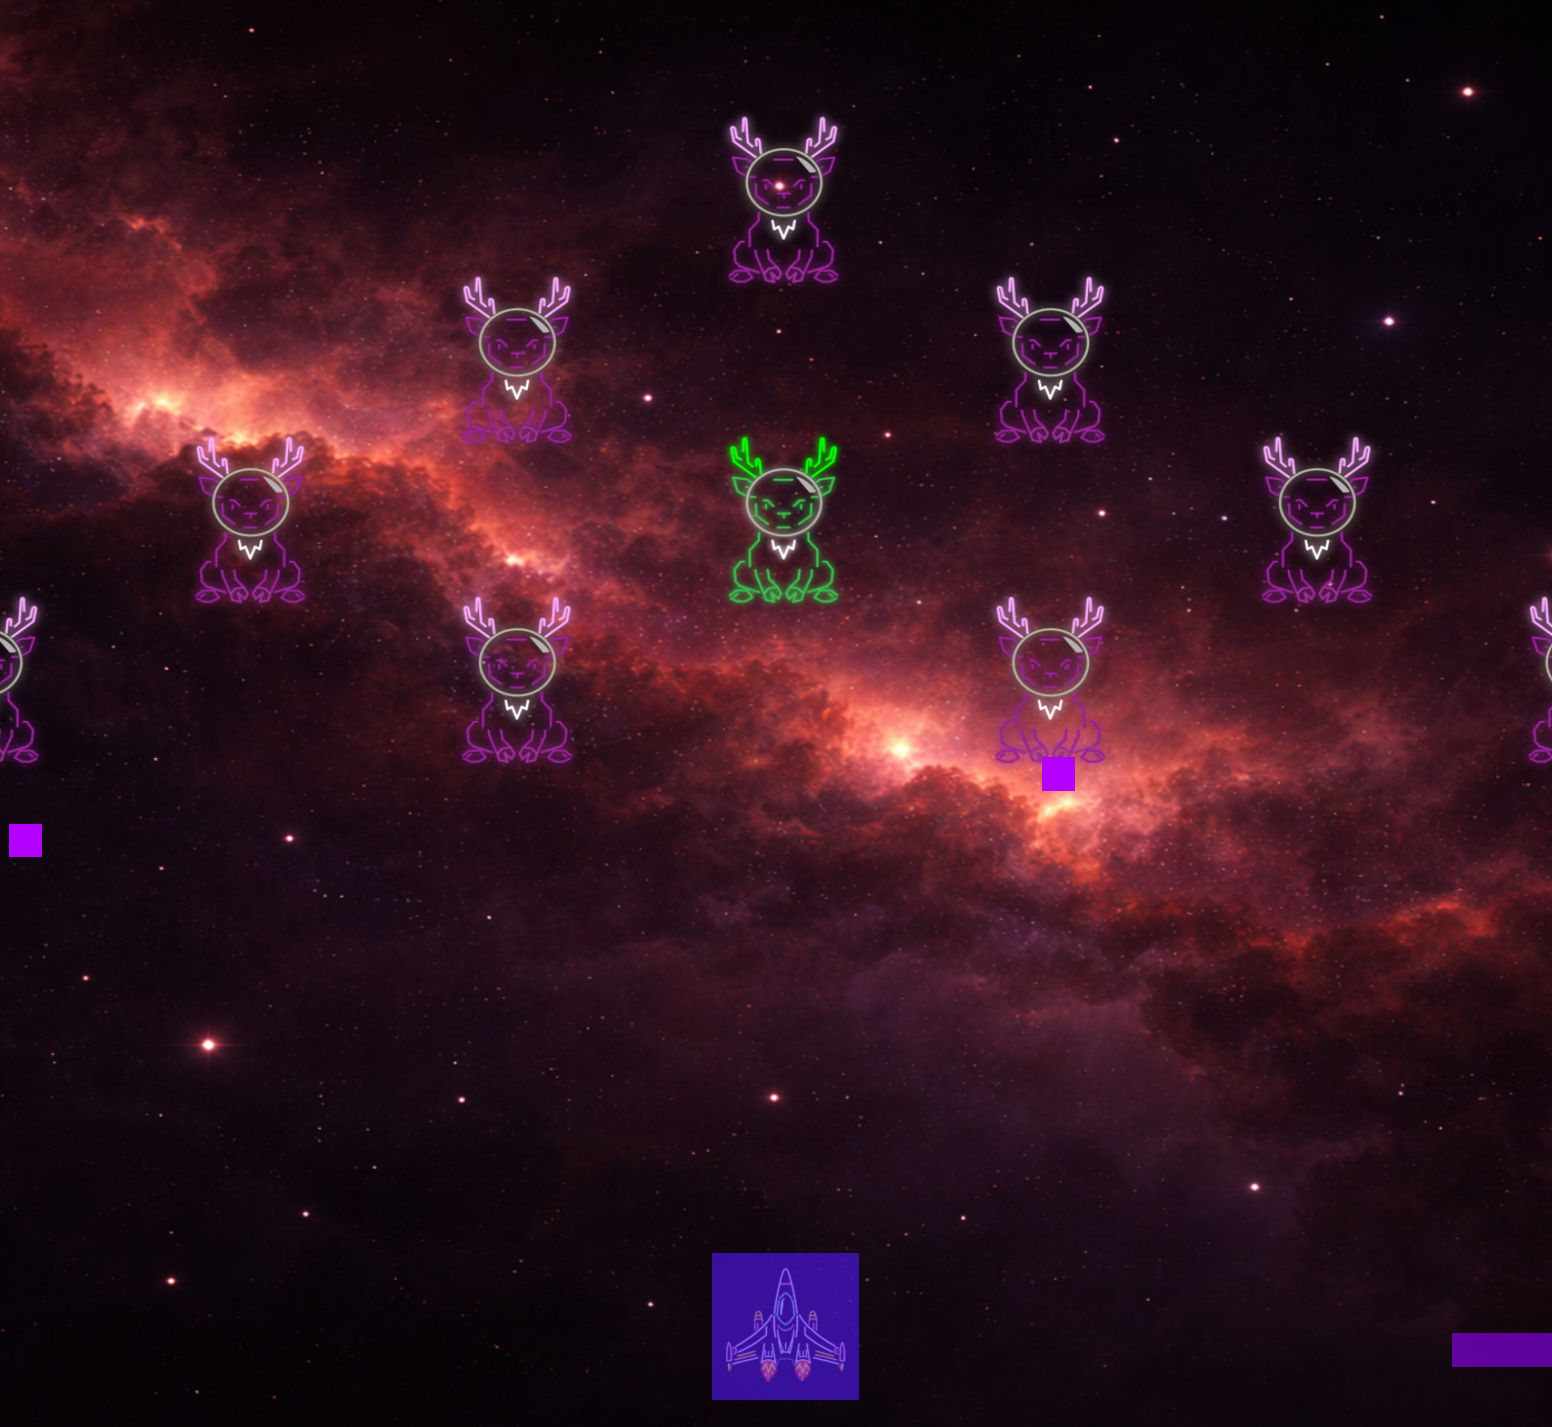
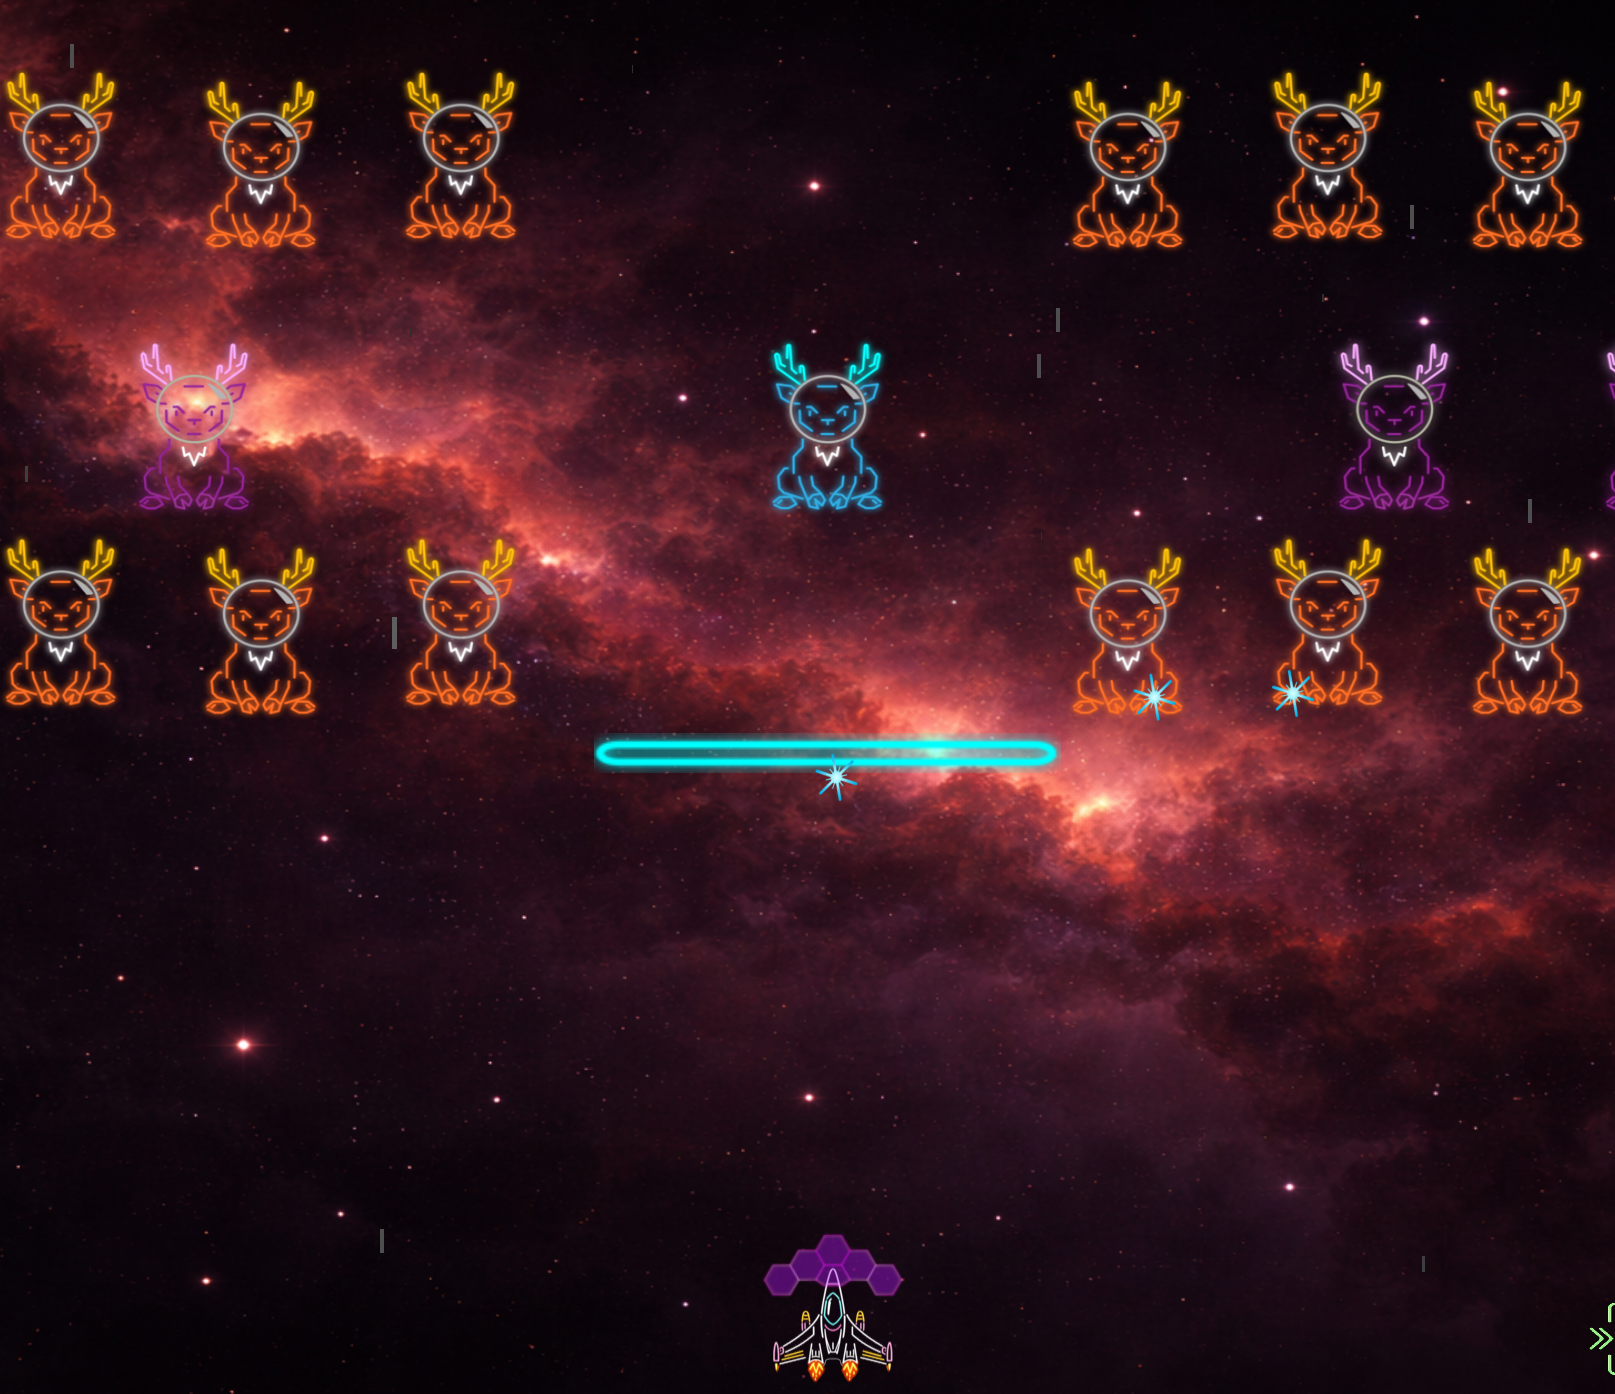
Debut Stage 3 + ChoixNiveau3 Update

diff --git a/Main.cpp b/Main.cpp
@@ -1778,10 +1778,10 @@ private:
             BoutonChoixNiveau2.h - (offset * 2.0f)
         };
         SDL_FRect Stage3Rect = {
-            BoutonChoixNiveau2.x + offset,
-            BoutonChoixNiveau2.y + offset,
-            BoutonChoixNiveau2.w - (offset * 2.0f),
-            BoutonChoixNiveau2.h - (offset * 2.0f)
+            BoutonChoixNiveau3.x + offset,
+            BoutonChoixNiveau3.y + offset,
+            BoutonChoixNiveau3.w - (offset * 2.0f),
+            BoutonChoixNiveau3.h - (offset * 2.0f)
         };
 
         //boutons et text
@@ -2286,14 +2286,26 @@ private:
     //Stage 3
     //wave 1
     void SpawnWave1Stage3() {
-        entities.push_back(new Enemy_MageIceDeer(300, 100, textureCerfMageIce));
-        entities.push_back(new Enemy_MageIceDeer(1450, 100, textureCerfMageIce));
+        entities.push_back(new Enemy_MageIceDeer(300, 450, textureCerfMageIce));
+        entities.push_back(new Enemy_MageIceDeer(1450, 450, textureCerfMageIce));
 
-        entities.push_back(new Enemy_DeerMelee(600,250,textureCerfMelee));
-        entities.push_back(new Enemy_DeerMelee(900,250,textureCerfMelee));
+        entities.push_back(new Enemy_DeerMelee(200,100,textureCerfMelee));
+        entities.push_back(new Enemy_DeerMelee(600,100,textureCerfMelee));
+        entities.push_back(new Enemy_DeerMelee(1200,100,textureCerfMelee));
+        entities.push_back(new Enemy_DeerMelee(1700,100,textureCerfMelee));
 
-        entities.push_back(new Enemy_MageIceDeer(500, 100, textureCerfMageIce));
-        entities.push_back(new Enemy_MageIceDeer(1650, 100, textureCerfMageIce));
+        entities.push_back(new Enemy_MageIceDeer(500, 450, textureCerfMageIce));
+        entities.push_back(new Enemy_MageIceDeer(1650, 450, textureCerfMageIce));
+
+        entities.push_back(new Enemy_Deer(100.f, 250.0f, false, textureCerf));
+        entities.push_back(new Enemy_Deer(250.f, 250.0f, true, textureCerfCarrot));
+        entities.push_back(new Enemy_Deer(400.f, 250.0f, false, textureCerf));
+        entities.push_back(new Enemy_Deer(550.0f, 250.0f, true, textureCerfCarrot));
+
+        entities.push_back(new Enemy_Deer(700.0f, 250.0f, false, textureCerf));
+        entities.push_back(new Enemy_Deer(850.0f, 250.0f, true, textureCerfCarrot));
+        entities.push_back(new Enemy_Deer(1000.0f, 250.0f, false, textureCerf));
+        entities.push_back(new Enemy_Deer(1150.0f, 250.0f,true, textureCerfCarrot));
 
         entities.push_back(new Enemy_Barricade(800, 700, textureBarricadeStyle3));
     }
@@ -2305,8 +2317,8 @@ private:
     void SpawnWave3Stage3() {
 
     }
-    //wave 4 (survival)
-    void SpawnWave4Stage3(float deltaTime) {
+    //wave 4
+    void SpawnWave4Stage3() {
 
     }
     //wave 5
@@ -2465,9 +2477,8 @@ private:
                 SpawnWave3Stage3();
             }
             else if (wave == 4) {
-                currentWaveType = WaveType::Survival;
-                survivalTimer = 0.0f;
-                meteorSpawnTimer = 0.0f;
+                currentWaveType = WaveType::Elimination;
+                SpawnWave4Stage3();
             }
             else if (wave == 5) {
                 currentWaveType = WaveType::Elimination;
@@ -2766,7 +2777,7 @@ private:
                         // Calcule l'intensité du rouge selon le temps restant
                         float ratio = enemy_barricade->hitFlashTimer / enemy_barricade->hitFlashDuration;
                         Uint8 flashIntensity = static_cast<Uint8>(ratio * 200); // 0 à 200
-                        SDL_SetTextureColorMod(enemy_barricade->textureBarricade, 255, 255 - flashIntensity, 255 - flashIntensity);
+                        SDL_SetTextureColorMod(enemy_barricade->textureBarricade, 255- flashIntensity, 255 - flashIntensity, 255 - flashIntensity);
                     } else {
                         // Remet la couleur normale
                         SDL_SetTextureColorMod(enemy_barricade->textureBarricade ,255, 255, 255);
@@ -3389,9 +3400,6 @@ private:
                         else if (currentStage == 2) {
                             SpawnWave4Stage2(deltaTime);
                         }
-                        else if (currentStage == 3) {
-                            SpawnWave4Stage3(deltaTime);
-                        }
                     }
 
             }
@@ -3794,7 +3802,12 @@ private:
                                 barricadeHit->bIsFlashing = true;
                                 barricadeHit->hitFlashTimer = barricadeHit->hitFlashDuration;
                             }
-
+                            //declenche le falsh pour le cerrf melee
+                            Enemy_DeerMelee* deerMeleeHit = dynamic_cast<Enemy_DeerMelee *>(ennemi);
+                            if (deerMeleeHit != nullptr) {
+                                deerMeleeHit->bIsFlashing = true;
+                                deerMeleeHit->hitFlashTimer = deerMeleeHit->hitFlashDuration;
+                            }
 
 
                             //si heal plus petit que 0 alors le cerf est detruit + score totaux

diff --git a/Personnages.cpp b/Personnages.cpp
@@ -271,8 +271,8 @@ void Enemy_MageIceDeer::Update(float deltaTime, std::vector<Entity *> &entities)
 //CERF MELEE
 Enemy_DeerMelee::Enemy_DeerMelee(float startX, float startY, SDL_Texture *texture) {
     AddComponent(HEALTH);
-    health.max_health = 200;
-    health.current_health = 200;
+    health.max_health = 40;
+    health.current_health = 40;
     AddComponent (MOVEMENT);
     movement.velocity = { 0.0f,0.0f };
     AddComponent(RENDER);

diff --git a/Personnages.h b/Personnages.h
@@ -121,7 +121,7 @@ public:
     bool bIsFlashing = false;
 
     float waitTimer = 0.0f;
-    const float waitDuration = 3.0f; // attente avant de charger
+    const float waitDuration = SDL_rand(10); // attente avant de charger
     bool bIsCharging = false;
     float chargeSpeed = 100.0f;
 };
